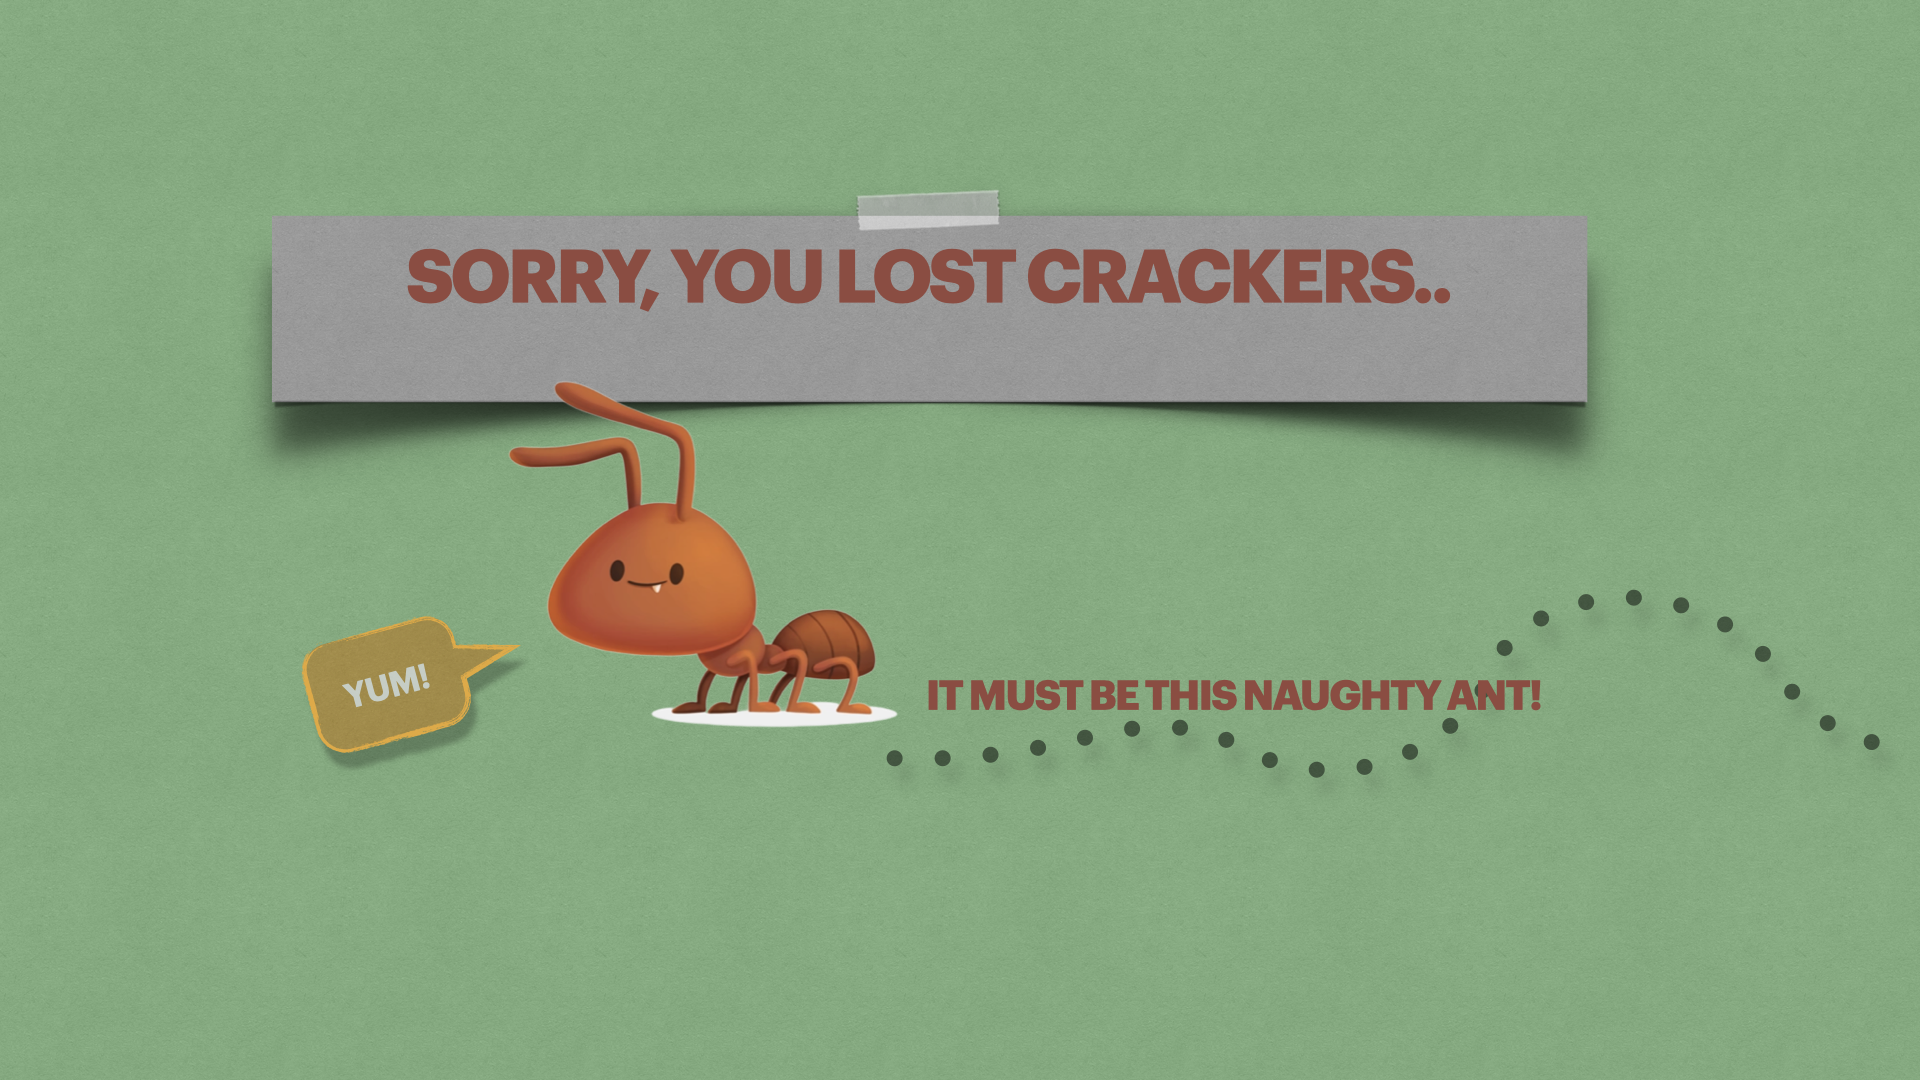
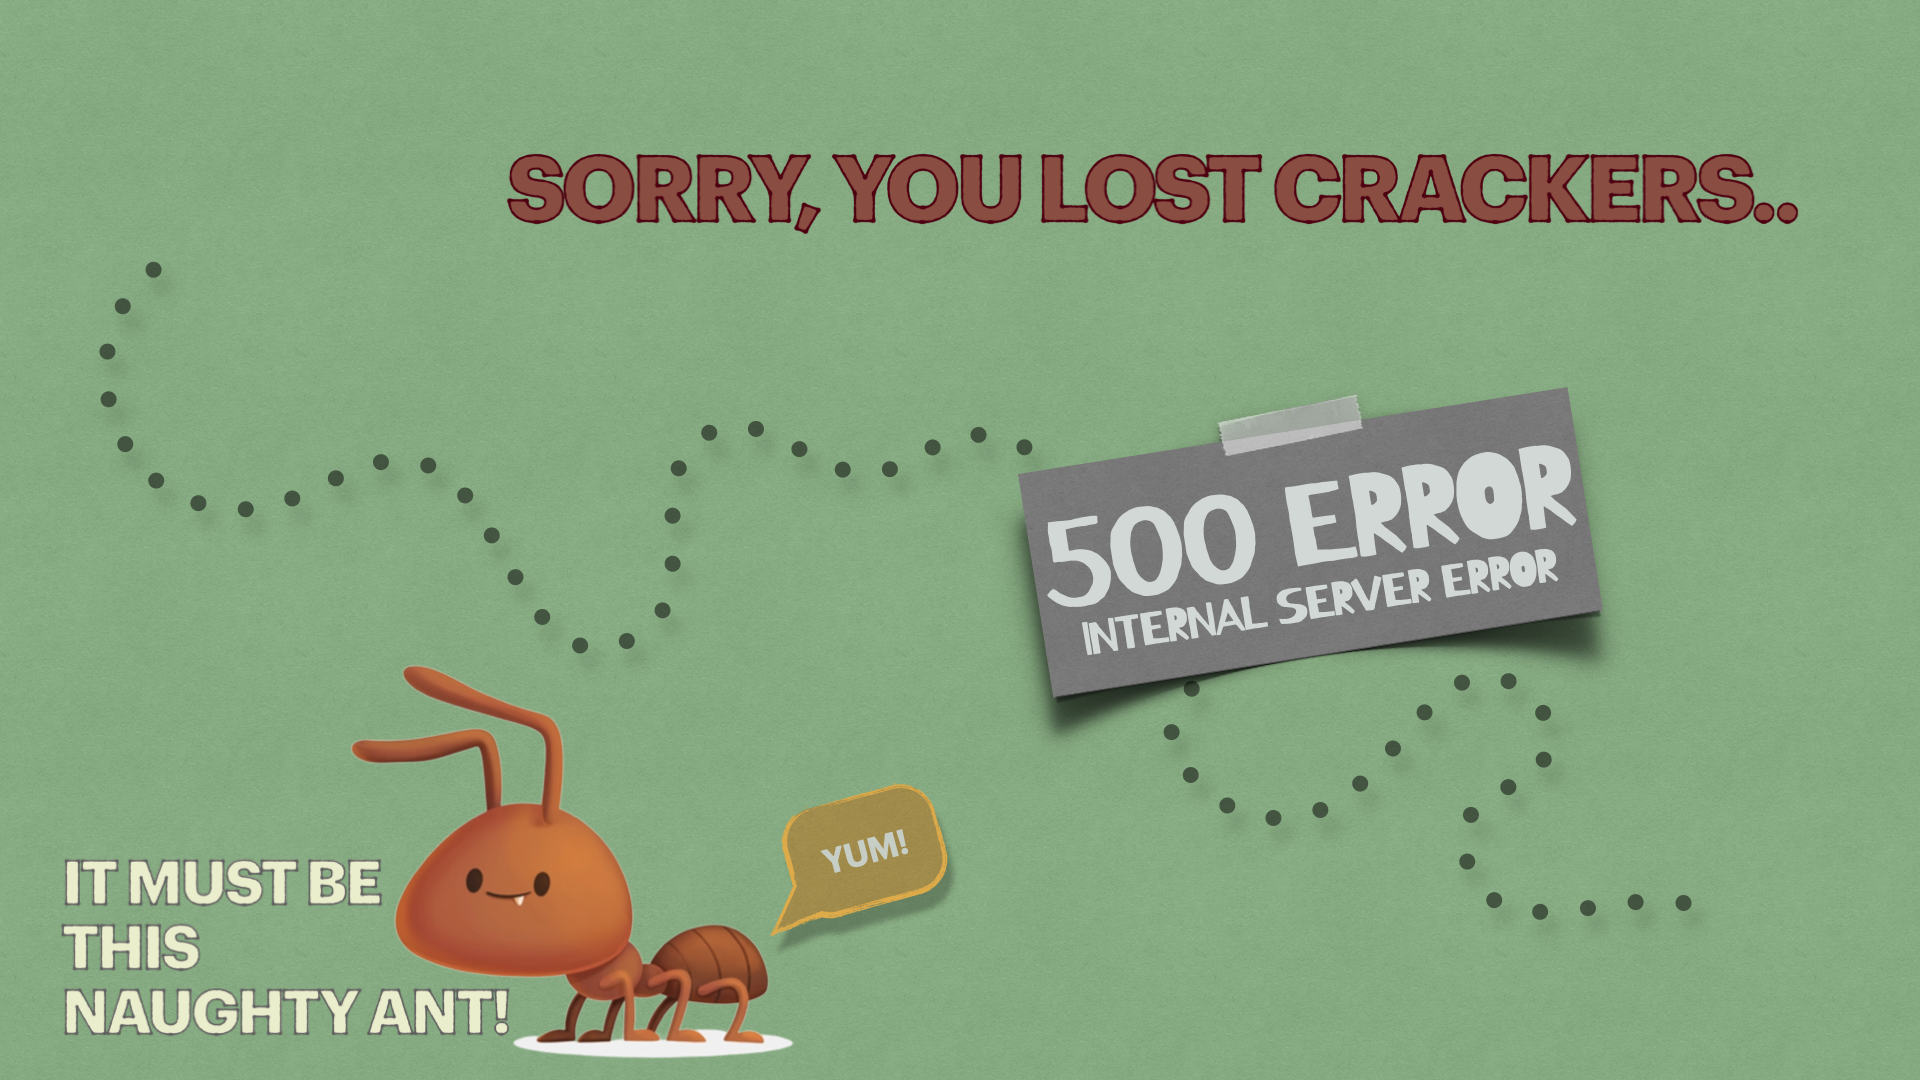
Add error pages - 404 / 400 / 500

diff --git a/src/main/resources/templates/error/400.html b/src/main/resources/templates/error/400.html
@@ -1,0 +1,29 @@
+<!DOCTYPE html>
+<html lang="en">
+<head>
+  <meta charset="UTF-8">
+  <title>Title</title>
+  <style>
+    html{
+      background: #79a87a;
+    }
+
+    .error-page {
+      height: 100%;
+      width: auto;
+      text-align: center;
+    }
+
+    .error-img {
+      object-fit: contain;
+      height: 100%;
+      width: 100%;
+    }
+  </style>
+</head>
+<body>
+<div class="error-page">
+  <img alt="500" class="error-img" src="/error_img/400.png">
+</div>
+</body>
+</html>

diff --git a/src/main/resources/templates/error/error_page.html b/src/main/resources/templates/error/error_page.html
@@ -23,7 +23,7 @@
 </head>
 <body>
 <div class="error-page">
-    <img alt="500" class="error-img" src="/error_img/500.png">
+    <img alt="500" class="error-img" src="/error_img/error_img.png">
 </div>
 </body>
 </html>

diff --git a/src/main/resources/templates/error/404.html b/src/main/resources/templates/error/404.html
@@ -23,7 +23,7 @@
 </head>
 <body>
 <div class="error-page">
-    <img alt="500" class="error-img" src="/error_img/500.png">
+    <img alt="500" class="error-img" src="/error_img/404.png">
 </div>
 </body>
 </html>

diff --git a/src/main/java/com/cracker/exception/GlobalExceptionHandler.java b/src/main/java/com/cracker/exception/GlobalExceptionHandler.java
@@ -19,6 +19,19 @@ public class GlobalExceptionHandler {
     @ExceptionHandler(Exception.class)
     public ResponseEntity<ErrorResponse> handleException(Exception ex) {
         ErrorResponse response = new ErrorResponse(ErrorCode.INTER_SERVER_ERROR, ex.getMessage());
-        return new ResponseEntity<>(response, HttpStatus.INTERNAL_SERVER_ERROR);
+//        return new ResponseEntity<>(response, HttpStatus.INTERNAL_SERVER_ERROR);
+
+    }
+
+    @ExceptionHandler(Exception.class)
+    public ResponseEntity<ErrorResponse> badRequestException(Exception ex) {
+        ErrorResponse response = new ErrorResponse(ErrorCode.BAD_REQUEST, ex.getMessage());
+        return new ResponseEntity<>(response, HttpStatus.BAD_REQUEST);
+    }
+
+    @ExceptionHandler(Exception.class)
+    public ResponseEntity<ErrorResponse> notFoundException(Exception ex) {
+        ErrorResponse response = new ErrorResponse(ErrorCode.RESOURCE_NOT_FOUND, ex.getMessage());
+        return new ResponseEntity<>(response, HttpStatus.NOT_FOUND);
     }
 }
